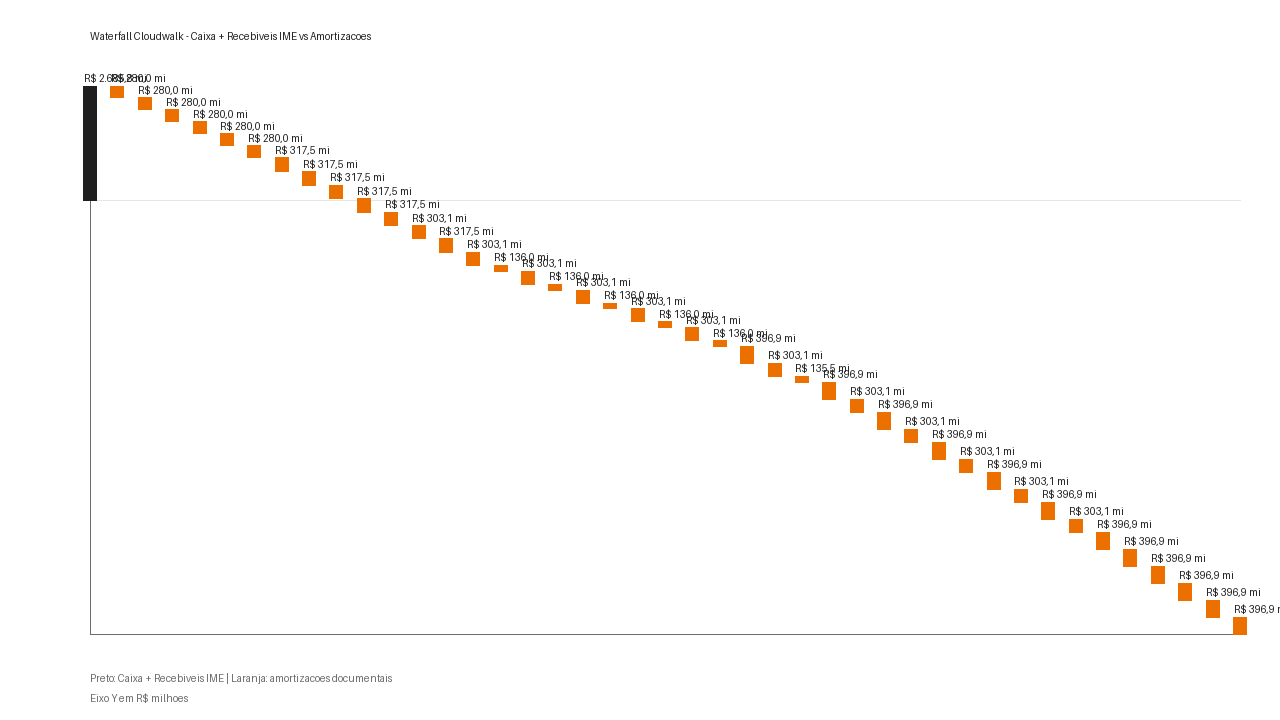
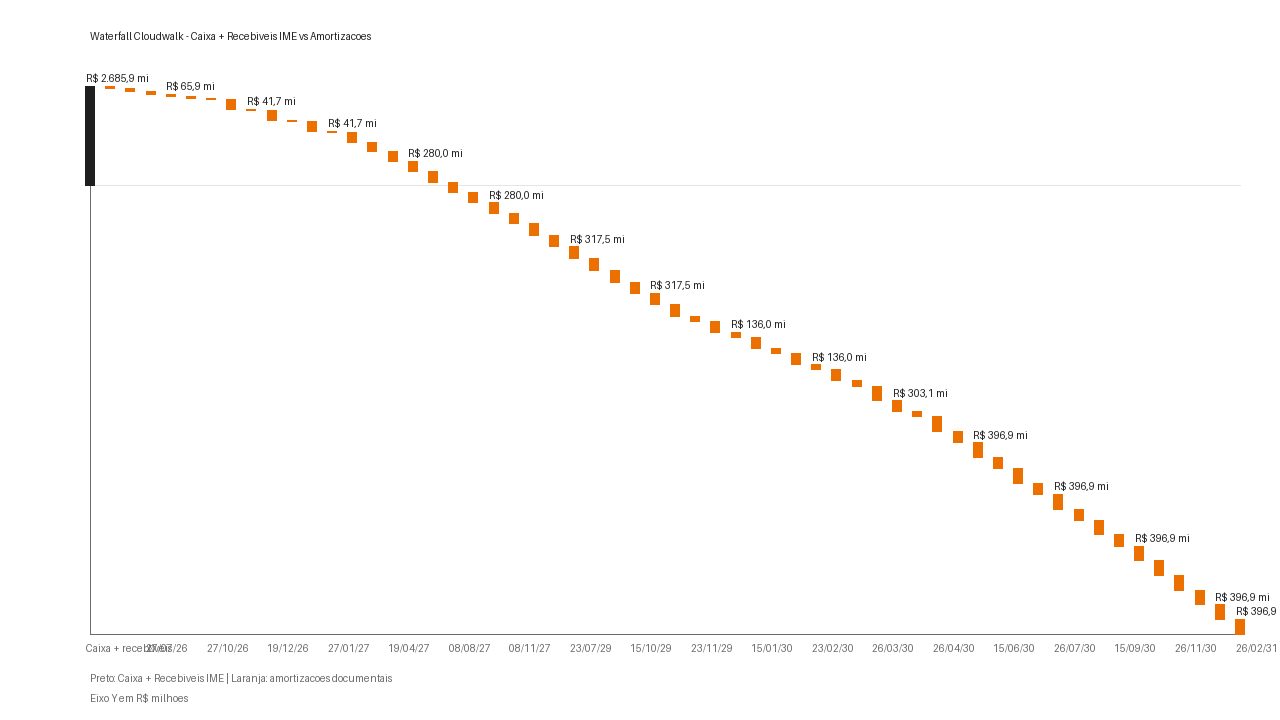
Curate remaining Cloudwalk waterfall schedules

diff --git a/services/waterfall_schedule.py b/services/waterfall_schedule.py
@@ -5,6 +5,7 @@ from datetime import date, timedelta
 from pathlib import Path
 import calendar
 import json
+import math
 import re
 import unicodedata
 from typing import Any
@@ -58,6 +59,7 @@ class ImeAssetSnapshot:
 class ParsedAmortization:
     percentages: list[tuple[date, float]]
     convention_hint: str | None = None
+    warnings: tuple[str, ...] = field(default_factory=tuple)
 
 
 def detect_amortization_convention(dates: list[date], percentages: list[float]) -> str:
@@ -92,6 +94,16 @@ def detect_amortization_convention(dates: list[date], percentages: list[float]) 
 def percentages_to_incremental(percentages: list[float], convention: str) -> list[float]:
     if convention == "incremental":
         return list(percentages)
+    if convention == "current_balance":
+        remaining = 100.0
+        output: list[float] = []
+        for value in percentages:
+            if value < -1e-9:
+                raise ValueError("Percentuais sobre saldo remanescente não podem ser negativos.")
+            amortized = remaining * value / 100.0
+            output.append(max(amortized, 0.0))
+            remaining = max(remaining - amortized, 0.0)
+        return output
     if convention != "cumulative":
         raise ValueError(f"Convenção de amortização inválida: {convention}")
 
@@ -130,8 +142,10 @@ def parse_amortization_schedule(
         raise ValueError("Amortização não mapeada no campo de curadoria.")
     if "cronograma nao localizado" in normalized or "sem campo numerico" in normalized:
         raise ValueError("Cronograma de amortização não localizado na curadoria.")
+    if any(token in normalized for token in ["fundo encerrado", "resgate total", "substituido", "nao usado"]):
+        raise ValueError("Série sem dívida futura ativa para o waterfall.")
 
-    parsed = _parse_bullet(raw) or _parse_linear(raw) or _parse_dated_percentages(raw)
+    parsed = _parse_bullet(raw) or _parse_linear(raw) or _parse_linear_dates(raw) or _parse_dated_percentages(raw)
     if not parsed.percentages:
         raise ValueError("Não foi possível extrair datas e percentuais de amortização do texto.")
 
@@ -140,7 +154,7 @@ def parse_amortization_schedule(
     convention = amortization_convention or parsed.convention_hint
     if convention is None:
         convention = detect_amortization_convention(dates, percentages)
-    if convention not in {"incremental", "cumulative"}:
+    if convention not in {"incremental", "cumulative", "current_balance"}:
         raise ValueError(f"Convenção de amortização inválida: {convention}")
 
     incremental_percentages = percentages_to_incremental(percentages, convention)
@@ -153,7 +167,7 @@ def parse_amortization_schedule(
         current_total = sum(amount for _, amount in values)
         final_date, final_amount = values[-1]
         values[-1] = (final_date, max(final_amount + (volume_emitido - current_total), 0.0))
-    return convention, values, warnings
+    return convention, values, tuple(parsed.warnings) + tuple(warnings)
 
 
 def load_cloudwalk_emissions(
@@ -397,6 +411,24 @@ def _parse_linear(text: str) -> ParsedAmortization | None:
     )
 
 
+def _parse_linear_dates(text: str) -> ParsedAmortization | None:
+    normalized = normalize_text(text)
+    if "linear em datas documentadas" not in normalized:
+        return None
+
+    dates = _dates_in_text(text)
+    if not dates:
+        raise ValueError("Cronograma linear em datas documentadas sem datas parseáveis.")
+    amount = 100.0 / len(dates)
+    return ParsedAmortization(
+        percentages=[(item_date, amount) for item_date in dates],
+        convention_hint="incremental",
+        warnings=(
+            "Cronograma documental lista datas sem percentuais; waterfall usa amortização linear entre as datas documentadas.",
+        ),
+    )
+
+
 def _parse_dated_percentages(text: str) -> ParsedAmortization:
     entries: list[tuple[date, float]] = []
     normalized = normalize_text(text)
@@ -419,7 +451,8 @@ def _parse_dated_percentages(text: str) -> ParsedAmortization:
     unique: dict[tuple[date, float], tuple[date, float]] = {}
     for item in entries:
         unique[(item[0], round(item[1], 6))] = item
-    return ParsedAmortization(percentages=sorted(unique.values(), key=lambda item: item[0]))
+    convention_hint = "current_balance" if "percentual do saldo" in normalized else None
+    return ParsedAmortization(percentages=sorted(unique.values(), key=lambda item: item[0]), convention_hint=convention_hint)
 
 
 def parse_percent(value: str) -> float | None:
@@ -474,6 +507,19 @@ def _first_date_in_text(text: str) -> date | None:
     if match:
         return parse_date_label(match.group(0))
     return None
+
+
+def _dates_in_text(text: str) -> list[date]:
+    normalized = normalize_text(text)
+    date_pattern = r"\d{1,2}/\d{1,2}/\d{2,4}|\b(?:jan|fev|mar|abr|mai|jun|jul|ago|set|out|nov|dez)[a-z]*/\d{2,4}\b"
+    parsed: list[date] = []
+    seen: set[date] = set()
+    for match in re.finditer(date_pattern, normalized):
+        item_date = parse_date_label(match.group(0))
+        if item_date is not None and item_date not in seen:
+            parsed.append(item_date)
+            seen.add(item_date)
+    return parsed
 
 
 def _find_latest_cached_ime(cnpj: str, cache_root: Path) -> dict[str, Any] | None:
@@ -742,7 +788,7 @@ def _waterfall_steps(rows: list[WaterfallRow], caixa_recebiveis_ime: float) -> l
     if abs(running) > 1e-9:
         steps.append(
             {
-                "label": "Caixa + recebíveis IME",
+                "label": "Caixa + recebíveis",
                 "value": running,
                 "bar_start": 0.0,
                 "bar_end": running,
@@ -811,12 +857,18 @@ def _save_waterfall_plot(rows: list[WaterfallRow], plot_path: Path, *, caixa_rec
             linewidth=1.0,
             linestyle="--",
         )
+    label_stride = max(1, math.ceil(len(steps) / 18))
     for index, step in enumerate(steps):
+        if index not in {0, len(steps) - 1} and index % label_stride != 0:
+            continue
         label_y = max(step["bar_start"], step["bar_end"]) / 1_000_000.0
-        ax.text(index, label_y, _format_brl_millions(abs(step["value"])), ha="center", va="bottom", fontsize=8)
+        ax.text(index, label_y, _format_brl_millions(abs(step["value"])), ha="center", va="bottom", fontsize=7)
 
     ax.set_title("Waterfall Cloudwalk — Caixa + Recebíveis IME vs. Amortizações")
     ax.set_ylabel("R$ milhões")
+    tick_stride = max(1, math.ceil(len(labels) / 28))
+    ax.set_xticks(range(len(labels)))
+    ax.set_xticklabels([label if index % tick_stride == 0 or index == len(labels) - 1 else "" for index, label in enumerate(labels)])
     ax.tick_params(axis="x", labelrotation=45)
     ax.grid(axis="y", color="#E5E5E5", linewidth=0.8)
     fig.tight_layout()
@@ -865,13 +917,18 @@ def _save_pillow_plot(rows: list[WaterfallRow], plot_path: Path, *, caixa_recebi
     zero_y = y_at(0.0)
     draw.line((x0, zero_y, width - margin_right, zero_y), fill="#E5E5E5", width=1)
     bar_width = max(8, min(44, int(plot_width / max(len(steps), 1) * 0.5)))
+    label_stride = max(1, math.ceil(len(steps) / 18))
+    tick_stride = max(1, math.ceil(len(steps) / 28))
     for index, step in enumerate(steps):
         x = x_at(index)
         start = step["bar_start"] / 1_000_000.0
         end = step["bar_end"] / 1_000_000.0
         color = "#1F1F1F" if step["type"] == "inicio" else "#EC7000"
         draw.rectangle((x - bar_width / 2, y_at(max(start, end)), x + bar_width / 2, y_at(min(start, end))), fill=color)
-        draw.text((x - bar_width / 2, y_at(max(start, end)) - 14), _format_brl_millions(abs(step["value"])), fill="#1F1F1F", font=font)
+        if index in {0, len(steps) - 1} or index % label_stride == 0:
+            draw.text((x - bar_width / 2, y_at(max(start, end)) - 14), _format_brl_millions(abs(step["value"])), fill="#1F1F1F", font=font)
+        if index % tick_stride == 0 or index == len(steps) - 1:
+            draw.text((x - bar_width / 2, y0 + 8), step["label"], fill="#6B6B6B", font=font)
 
     draw.text((margin_left, height - 48), "Preto: Caixa + Recebiveis IME | Laranja: amortizacoes documentais", fill="#6B6B6B", font=font)
     draw.text((margin_left, height - 28), "Eixo Y em R$ milhoes", fill="#6B6B6B", font=font)

diff --git a/tests/test_waterfall_schedule.py b/tests/test_waterfall_schedule.py
@@ -43,6 +43,36 @@ class WaterfallScheduleTest(unittest.TestCase):
         self.assertEqual([16, 34, 30, 20], deltas)
         self.assertEqual([160_000, 340_000, 300_000, 200_000], [1_000_000 * value / 100 for value in deltas])
 
+    def test_current_balance_percentages_to_incremental(self):
+        deltas = percentages_to_incremental([16, 19.047619, 100], "current_balance")
+
+        self.assertAlmostEqual(16.0, deltas[0])
+        self.assertAlmostEqual(16.0, deltas[1], places=4)
+        self.assertAlmostEqual(68.0, deltas[2], places=4)
+
+    def test_parse_current_balance_schedule(self):
+        convention, schedule, warnings = parse_amortization_schedule(
+            "Percentual do saldo de Cotas Sêniores a serem amortizadas: "
+            "27/02/2025 16,00%; 27/08/2025 19,05%; 27/06/2026 100,00%",
+            1_500_000,
+        )
+
+        self.assertEqual("current_balance", convention)
+        self.assertAlmostEqual(1_500_000, sum(amount for _, amount in schedule), places=0)
+        self.assertEqual((), warnings)
+
+    def test_parse_linear_documented_dates_warns(self):
+        convention, schedule, warnings = parse_amortization_schedule(
+            "Linear em datas documentadas: 19/11/2026; 19/12/2026; 19/01/2027; "
+            "19/02/2027; 19/03/2027; 19/04/2027",
+            600_000,
+        )
+
+        self.assertEqual("incremental", convention)
+        self.assertEqual(6, len(schedule))
+        self.assertAlmostEqual(100_000, schedule[0][1])
+        self.assertTrue(warnings)
+
     def test_incremental_sum_validation_keeps_near_100_with_warning(self):
         convention, schedule, warnings = parse_amortization_schedule(
             "30% em jan/27, 30% em fev/27, 37% em mar/27",

diff --git a/tabs/tab_deep_dive.py b/tabs/tab_deep_dive.py
@@ -3,6 +3,7 @@ from __future__ import annotations
 from datetime import date
 from html import escape
 from pathlib import Path
+import math
 import re
 from typing import Any
 
@@ -638,7 +639,7 @@ def _cloudwalk_waterfall_chart_frame(rows: list[Any], caixa_recebiveis_ime: floa
         output.append(
             {
                 "ordem": 1,
-                "etapa": "Caixa + recebíveis IME",
+                "etapa": "Caixa + recebíveis",
                 "tipo": "Caixa + recebíveis",
                 "valor": running,
                 "bar_start": 0.0,
@@ -668,6 +669,8 @@ def _cloudwalk_waterfall_chart_frame(rows: list[Any], caixa_recebiveis_ime: floa
         return frame
     for column in ["valor", "bar_start", "bar_end", "label_y"]:
         frame[f"{column}_mi"] = pd.to_numeric(frame[column], errors="coerce").fillna(0.0) / 1_000_000.0
+    label_stride = max(1, math.ceil(len(frame) / 18))
+    frame["show_label"] = frame["ordem"].isin({1, int(frame["ordem"].max())}) | ((frame["ordem"] - 1) % label_stride == 0)
     return frame
 
 
@@ -708,7 +711,7 @@ def _cloudwalk_waterfall_chart(chart_df: pd.DataFrame) -> alt.Chart | None:
         )
     )
     labels = (
-        alt.Chart(chart_df)
+        alt.Chart(chart_df[chart_df["show_label"]])
         .mark_text(dy=-8, fontSize=12, fontWeight=700, color="#1F1F1F", clip=False)
         .encode(
             x=alt.X("etapa:N", sort=x_sort),